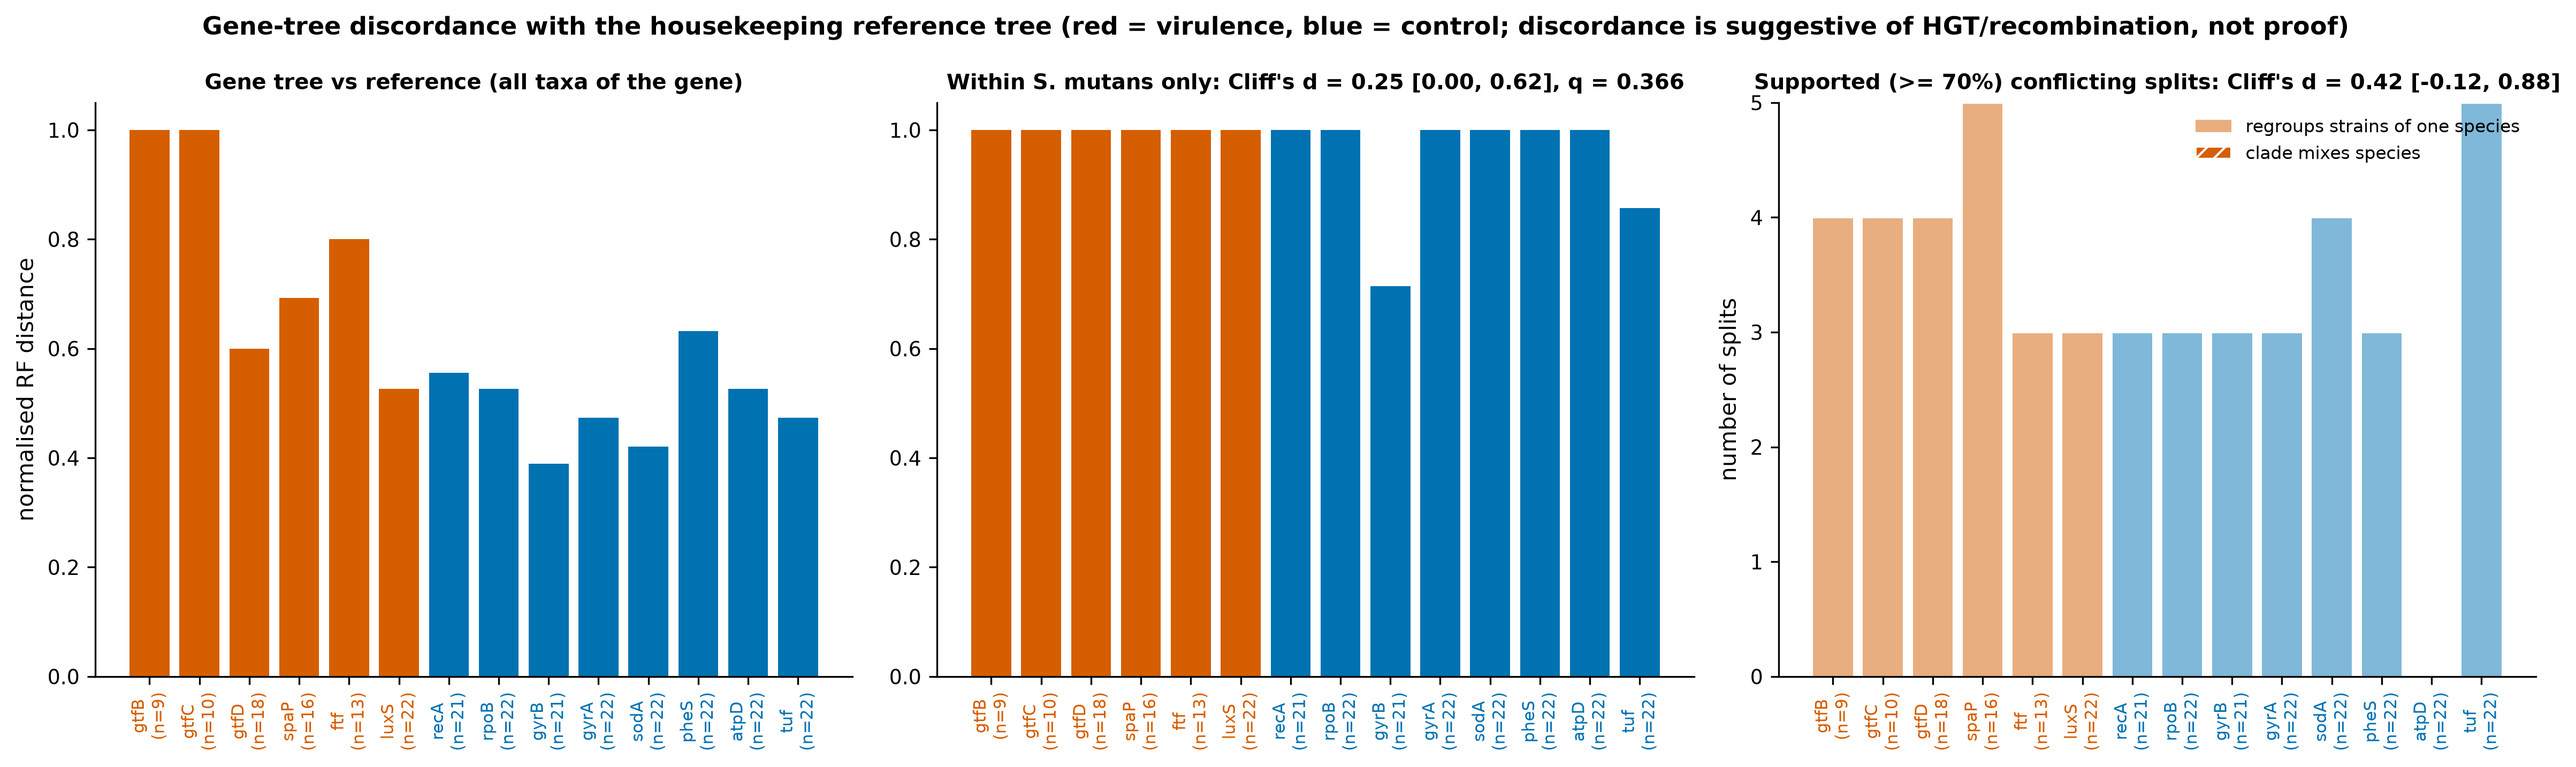
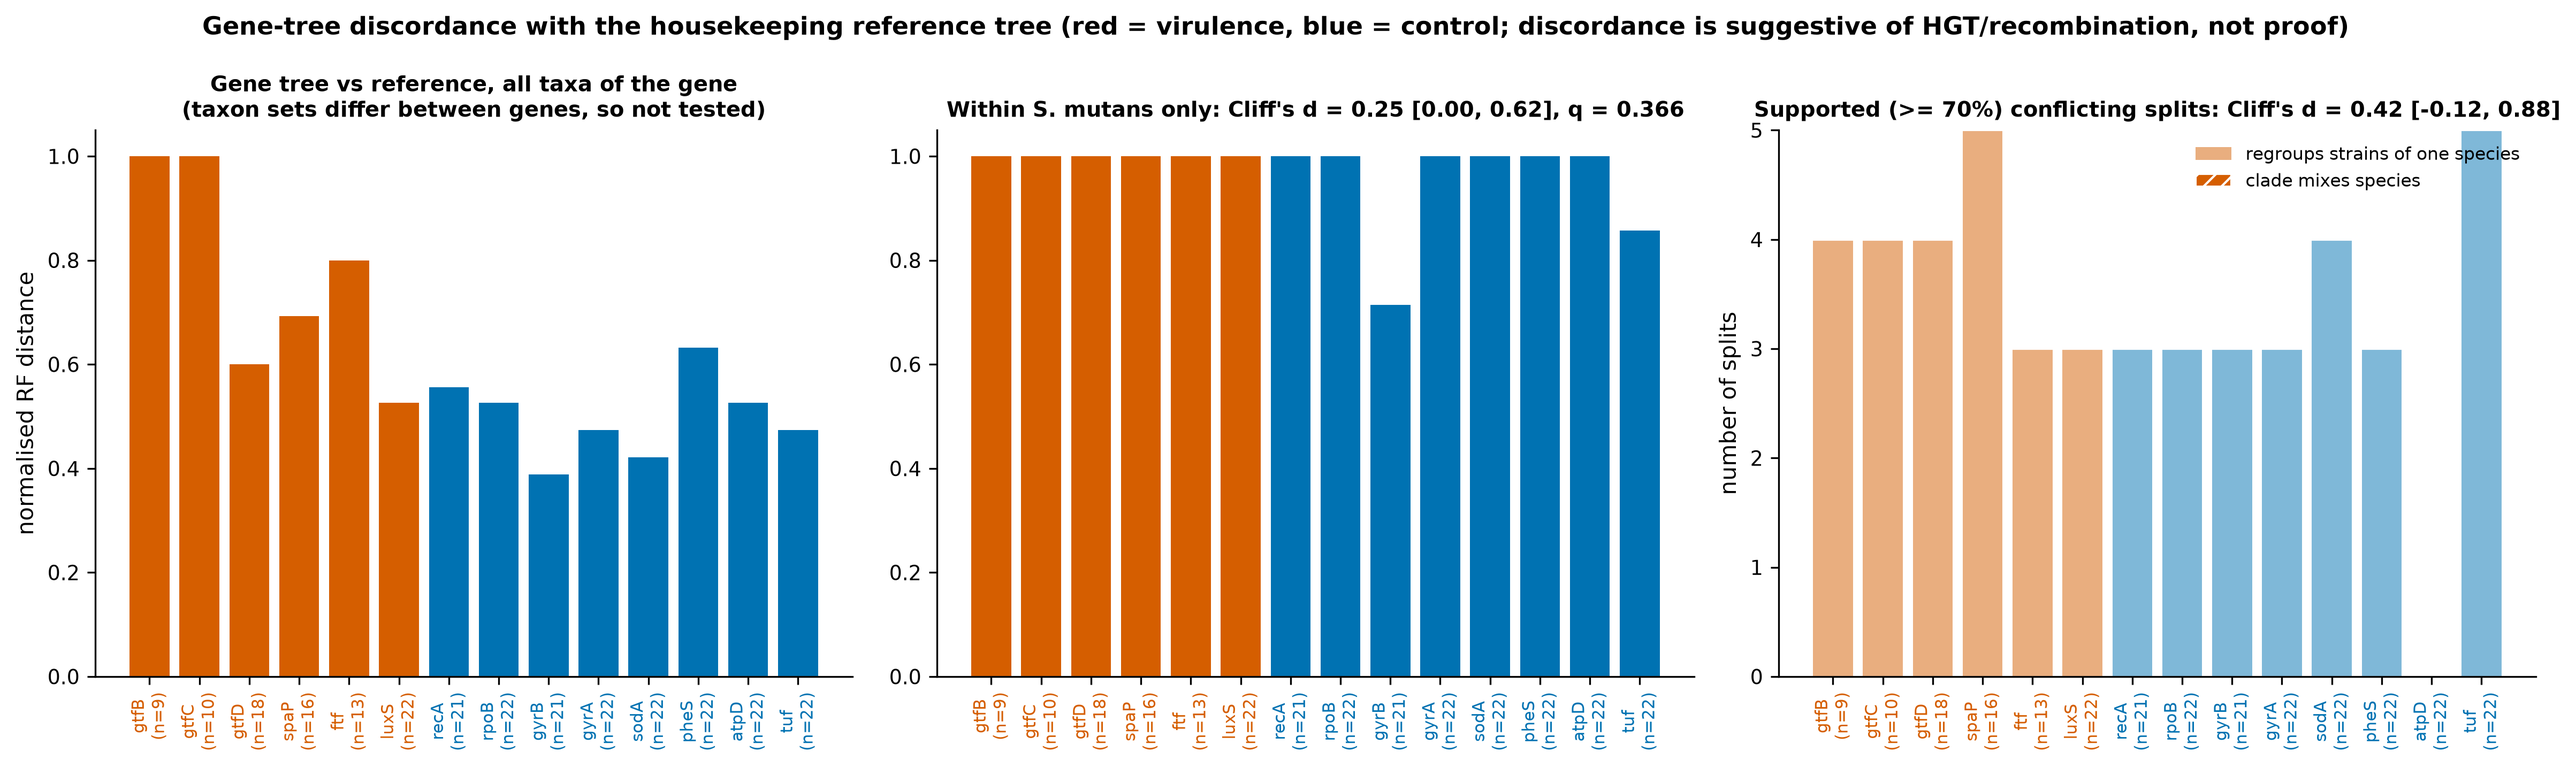
Fix string literal in discordance figure title

diff --git a/src/cariogenome/m4_figures.py b/src/cariogenome/m4_figures.py
@@ -122,8 +122,7 @@ def plot_discordance(disc: pd.DataFrame, tests: pd.DataFrame) -> None:
     x = np.arange(len(coding))
     axes[0].bar(x, coding["nRF_vs_reference"], color=colors)
     axes[0].set_ylabel("normalised RF distance")
-    axes[0].set_title("Gene tree vs reference, all taxa of the gene
-(taxon sets differ between genes, so not tested)", fontsize=9.5)
+    axes[0].set_title("Gene tree vs reference, all taxa of the gene\n(taxon sets differ between genes, so not tested)", fontsize=9.5)
     axes[1].bar(x, coding["nRF_within_Smutans"], color=colors)
     r = t.loc["nRF_within_Smutans"]
     axes[1].set_title(f"Within S. mutans only: Cliff's d = {r.cliffs_delta:.2f} "
